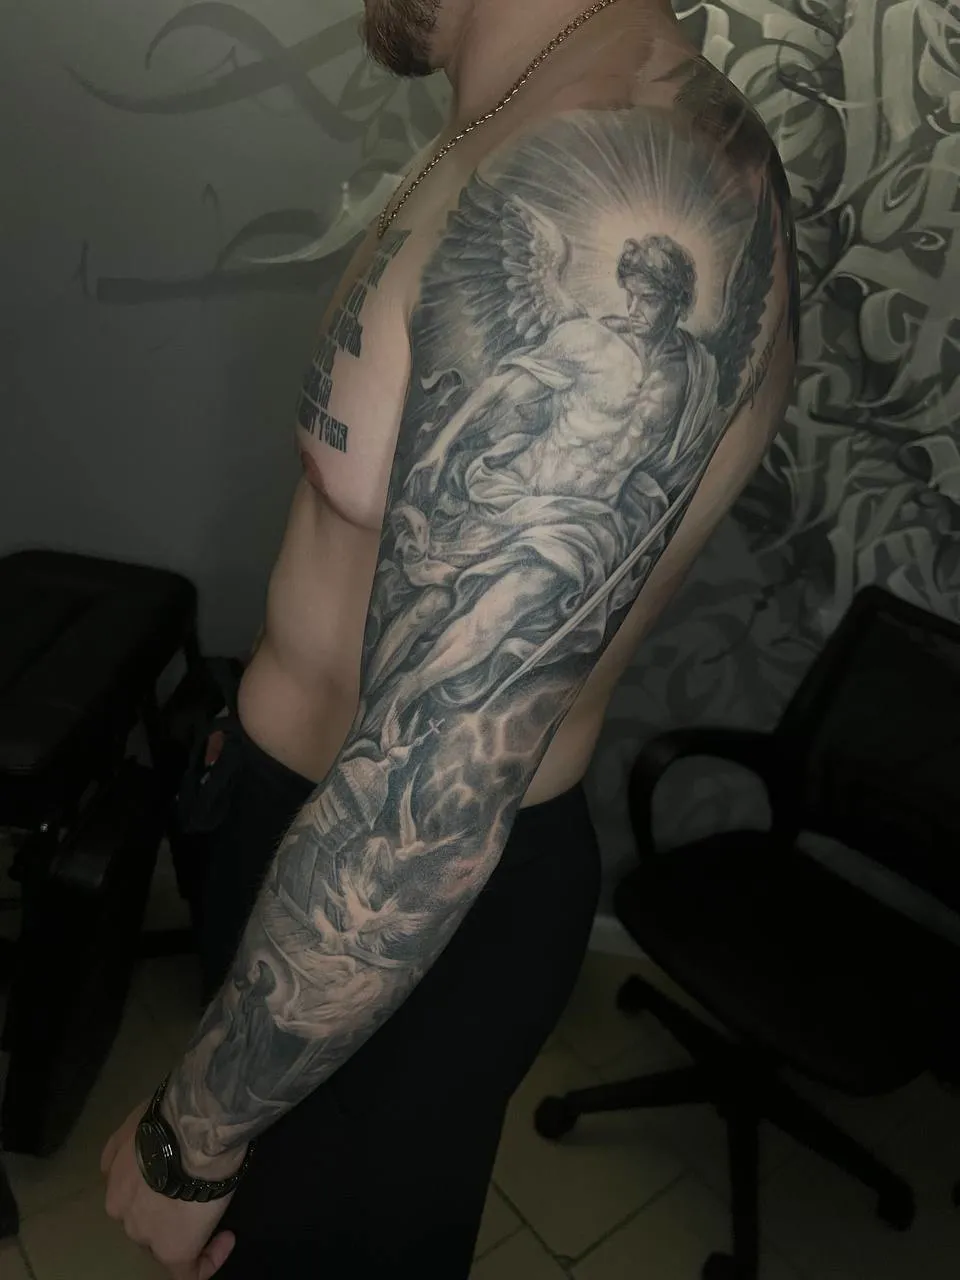
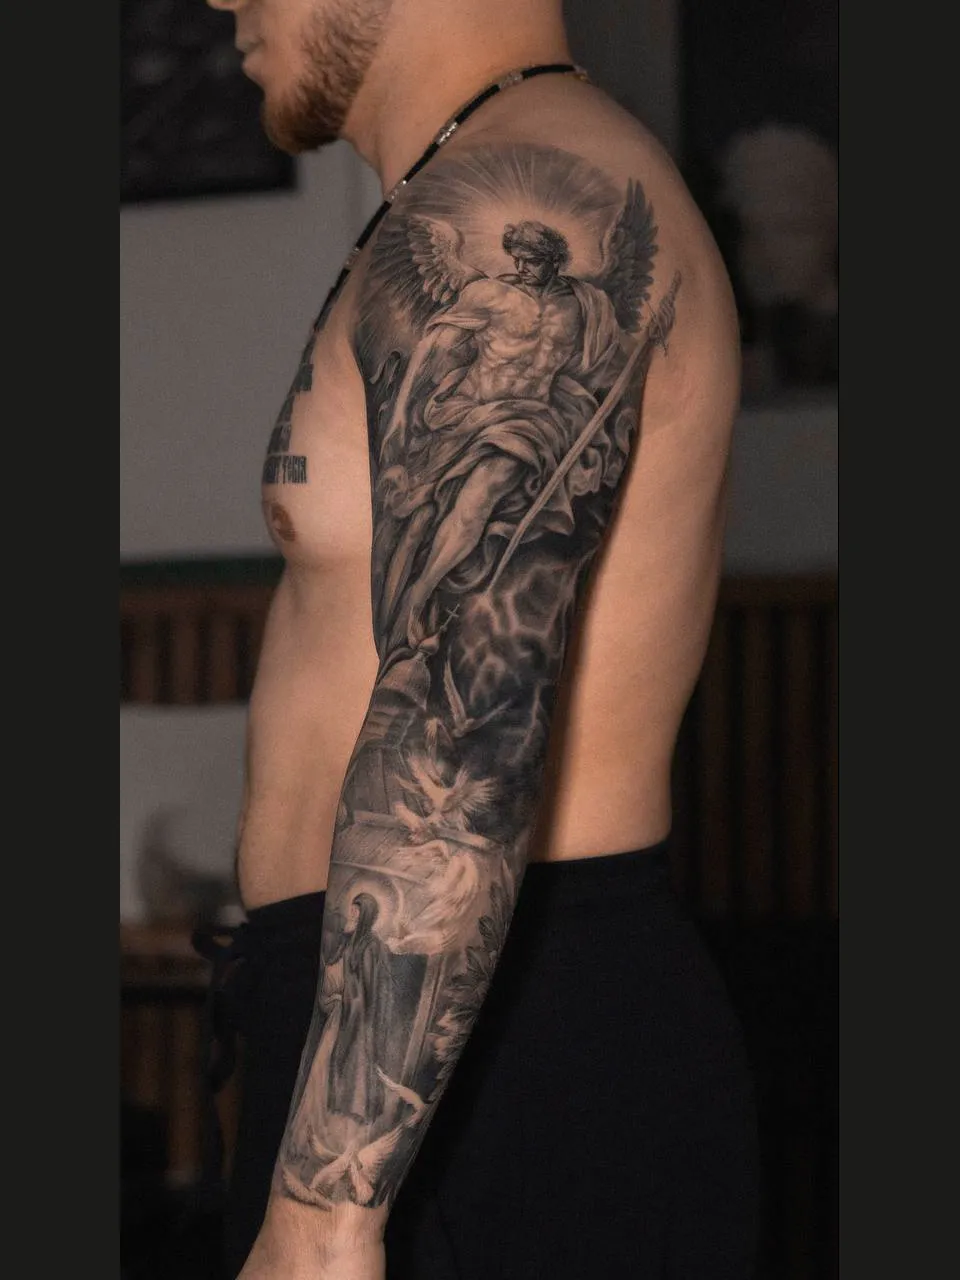
Сайт Миши: обновление

diff --git a/index.html b/index.html
@@ -971,6 +971,12 @@ div.rv-sum{justify-content:flex-start;gap:14px}div.rv-sum:hover{background:var(-
   .cv-list::-webkit-scrollbar{display:none}
   .cv-pick{flex:none}
 }
+/* «Ещё перекрытия» — квадратные коллажи Миши под ползунком: четыре в ряд, на телефоне два. Без приближения и параллакса, как у картин */
+.cvg{display:grid;grid-template-columns:repeat(4,minmax(0,1fr));gap:8px}
+.cvg .work button{aspect-ratio:1/1}
+.cvg .work img{scale:1;translate:none}
+@media (hover:hover) and (pointer:fine){.cvg .work button:hover img{scale:1.04}}
+@media (max-width:639px){.cvg{grid-template-columns:repeat(2,minmax(0,1fr))}}
 
 /* ——— сайт Миши: что отличается от личного сайта Владимира ——— */
 /* подвал без имени: отступы сверху и снизу от кнопок контактов одинаковые */
@@ -1136,6 +1142,11 @@ a[href^="#"]{-webkit-touch-callout:none}
            имя в src и srcset (там же ширина большого фото: 853w или 960w — чёткие экраны берут его), data-cat — темы, название (data-t, aria-label, .t) и описание (data-alt, alt).
            Названия работ придумал Claude по фото — Миша может поправить. «Огонь» в названиях не повторяем (27.10.2026), он остаётся только в описаниях -->
       <div class="grid" id="grid">
+        <!-- Спина — 6 сеансов (Миша, Telegram 28.10.2026), первой в «Работах» -->
+        <figure class="work" data-rv data-n="mikhail-41" data-cat="bw" data-t="Дракон в цепях" data-alt="Тату: дракон в цепях и готические окна на всю спину, чёрно-белый реализм">
+          <button type="button" data-open="mikhail-41" aria-label="Открыть: Дракон в цепях"><img src="img/thumbs/mikhail-41.webp" srcset="img/thumbs/mikhail-41.webp 520w, img/mikhail-41.webp 960w" sizes="(max-width: 980px) 50vw, 33vw" alt="Тату: дракон в цепях и готические окна на всю спину, чёрно-белый реализм" width="520" height="693" loading="lazy" decoding="async"></button>
+          <figcaption><span class="t">Дракон в цепях</span></figcaption>
+        </figure>
         <figure class="work" data-rv data-n="mikhail-07" data-cat="color" data-t="Леопард" data-alt="Тату: леопард в огне на плече, цветной реализм">
           <button type="button" data-open="mikhail-07" aria-label="Открыть: Леопард"><img src="img/thumbs/mikhail-07.webp" srcset="img/thumbs/mikhail-07.webp 520w, img/mikhail-07.webp 853w" sizes="(max-width: 980px) 50vw, 33vw" alt="Тату: леопард в огне на плече, цветной реализм" width="520" height="693" loading="lazy" decoding="async"></button>
           <figcaption><span class="t">Леопард</span></figcaption>
@@ -1313,7 +1324,7 @@ a[href^="#"]{-webkit-touch-callout:none}
     </div>
   </section>
 
-  <!-- «Перекрытия» — до и после с ползунком (фото Владимира, 27.10.2026). Пример «Леопард» — та же работа, что первая в «Работах».
+  <!-- «Перекрытия» — до и после с ползунком (фото Владимира, 27.10.2026). Пример «Леопард» — та же работа, что вторая в «Работах».
        Новый пример: img/cover-NN-before.webp и img/cover-NN.webp (один кадр, 3:4) + img/thumbs/cover-NN.webp (180×240) —
        скопировать <li> в .cv-list, поменять data-n, название и описания. Пока пример один, список под текстом скрыт -->
   <section class="sec" id="covers" style="padding-top:0">
@@ -1343,6 +1354,45 @@ a[href^="#"]{-webkit-touch-callout:none}
             <a class="m-btn m-main cv-go" href="https://t.me/ru_misha" target="_blank" rel="noopener">Прислать фото в&nbsp;Телеграм</a>
           </div>
         </div>
+      </div>
+      <!-- «Ещё перекрытия» — коллажи Миши «после | до» (Telegram, 28.10.2026, «От Миши/Новые 28.10»; у «Девушки с розами» «до» слева).
+           Ползунок — только у «Леопарда»: его фото сняты специально под сравнение (Владимир, 28.10.2026). С «Работами» повторяются — Миша: «пусть повторяются».
+           Открываются крупно, стрелки листают только коллажи. Новый коллаж: img/thumbs/cvg-NN.webp (520×520) и img/cvg-NN.webp
+           (960×1280: коллаж 960×960 по центру на фоне #1B1B19, как квадратные примеры в «Ценах»), скопировать <figure> -->
+      <p class="eyebrow ab-why" data-rv>Ещё перекрытия</p>
+      <div class="cvg" id="cvg" data-rv-stagger>
+        <figure class="work" data-rv data-n="cvg-01" data-t="Дракон" data-alt="Перекрытие: огненный дракон на предплечье поверх старой татуировки — до и после">
+          <button type="button" data-open="cvg-01" aria-label="Открыть: Дракон"><img src="img/thumbs/cvg-01.webp" alt="Перекрытие: огненный дракон на предплечье поверх старой татуировки — до и после" width="520" height="520" loading="lazy" decoding="async"></button>
+          <figcaption><span class="t">Дракон</span></figcaption>
+        </figure>
+        <figure class="work" data-rv data-n="cvg-02" data-t="Монахиня" data-alt="Перекрытие: монахиня с черепом поверх старой татуировки — до и после">
+          <button type="button" data-open="cvg-02" aria-label="Открыть: Монахиня"><img src="img/thumbs/cvg-02.webp" alt="Перекрытие: монахиня с черепом поверх старой татуировки — до и после" width="520" height="520" loading="lazy" decoding="async"></button>
+          <figcaption><span class="t">Монахиня</span></figcaption>
+        </figure>
+        <figure class="work" data-rv data-n="cvg-03" data-t="Солдат" data-alt="Перекрытие: солдат в шлеме на плече поверх старого контура — до и после">
+          <button type="button" data-open="cvg-03" aria-label="Открыть: Солдат"><img src="img/thumbs/cvg-03.webp" alt="Перекрытие: солдат в шлеме на плече поверх старого контура — до и после" width="520" height="520" loading="lazy" decoding="async"></button>
+          <figcaption><span class="t">Солдат</span></figcaption>
+        </figure>
+        <figure class="work" data-rv data-n="cvg-04" data-t="Орёл" data-alt="Перекрытие: орёл с раскрытыми крыльями на плече поверх старой тёмной татуировки — до и после">
+          <button type="button" data-open="cvg-04" aria-label="Открыть: Орёл"><img src="img/thumbs/cvg-04.webp" alt="Перекрытие: орёл с раскрытыми крыльями на плече поверх старой тёмной татуировки — до и после" width="520" height="520" loading="lazy" decoding="async"></button>
+          <figcaption><span class="t">Орёл</span></figcaption>
+        </figure>
+        <figure class="work" data-rv data-n="cvg-05" data-t="Святая" data-alt="Перекрытие: святая с кувшином на плече поверх старой татуировки — до и после">
+          <button type="button" data-open="cvg-05" aria-label="Открыть: Святая"><img src="img/thumbs/cvg-05.webp" alt="Перекрытие: святая с кувшином на плече поверх старой татуировки — до и после" width="520" height="520" loading="lazy" decoding="async"></button>
+          <figcaption><span class="t">Святая</span></figcaption>
+        </figure>
+        <figure class="work" data-rv data-n="cvg-06" data-t="Анубис" data-alt="Перекрытие: Анубис на голени поверх старой татуировки с топором — до и после">
+          <button type="button" data-open="cvg-06" aria-label="Открыть: Анубис"><img src="img/thumbs/cvg-06.webp" alt="Перекрытие: Анубис на голени поверх старой татуировки с топором — до и после" width="520" height="520" loading="lazy" decoding="async"></button>
+          <figcaption><span class="t">Анубис</span></figcaption>
+        </figure>
+        <figure class="work" data-rv data-n="cvg-07" data-t="Девушка с розами" data-alt="Перекрытие: женский портрет с розами на плече поверх пятна на коже — до и после">
+          <button type="button" data-open="cvg-07" aria-label="Открыть: Девушка с розами"><img src="img/thumbs/cvg-07.webp" alt="Перекрытие: женский портрет с розами на плече поверх пятна на коже — до и после" width="520" height="520" loading="lazy" decoding="async"></button>
+          <figcaption><span class="t">Девушка с розами</span></figcaption>
+        </figure>
+        <figure class="work" data-rv data-n="cvg-08" data-t="Леопард" data-alt="Перекрытие: леопард в огне на плече поверх старой выцветшей татуировки — до и после">
+          <button type="button" data-open="cvg-08" aria-label="Открыть: Леопард"><img src="img/thumbs/cvg-08.webp" alt="Перекрытие: леопард в огне на плече поверх старой выцветшей татуировки — до и после" width="520" height="520" loading="lazy" decoding="async"></button>
+          <figcaption><span class="t">Леопард</span></figcaption>
+        </figure>
       </div>
     </div>
   </section>
@@ -1412,11 +1462,13 @@ a[href^="#"]{-webkit-touch-callout:none}
            Примеры — фото Миши из Telegram (27.10.2026, «От Миши/Примеры по сеансам»): «эти за один сеанс» — 19, «два сеанса» и слон — 6, «рукав 4–5 сеансов» — 10.
            Лежат в img/ex/ (s1-, s2-, rk-; 960×1280, квадратные и широкие вписаны целиком на тёмный фон), в «Работах» их нет.
            data-ex — фото через пробел, первое — на карточке (превью img/thumbs/ex-…); data-ex-t — подпись в просмотре.
-           Новое фото: img/ex/s1-20.webp и дописать ex/s1-20 в data-ex, поправить число на плашке и в aria-label -->
+           Новое фото: img/ex/s1-20.webp и дописать ex/s1-20 в data-ex, поправить число на плашке и в aria-label.
+           Рукав (28.10.2026, вечер): вместо 10 отдельных фото — 5: коллажи Миши rk-c1 (Мэрилин), rk-c2 (око, облака, часы), rk-c3 (замок),
+           архангел rk-04 — фото Владимира, «где нет стула» (второе фото архангела убрано — Миша), Иисус rk-02. На карточке по-прежнему Мэрилин (rk-01) -->
       <div class="why-grid" data-rv-stagger>
         <div class="why-c pr-c" data-rv><button class="pr-ph" type="button" data-ex="ex/s1-01 ex/s1-02 ex/s1-03 ex/s1-04 ex/s1-05 ex/s1-06 ex/s1-07 ex/s1-08 ex/s1-09 ex/s1-10 ex/s1-11 ex/s1-12 ex/s1-13 ex/s1-14 ex/s1-15 ex/s1-16 ex/s1-17 ex/s1-18 ex/s1-19" data-ex-t="1 сеанс — 40 000 ₽" aria-label="Примеры работ за один сеанс: 19 фото"><img src="img/thumbs/ex-s1-01.webp" srcset="img/thumbs/ex-s1-01.webp 520w, img/ex/s1-01.webp 960w" sizes="25vw" alt="" width="520" height="693" loading="lazy" decoding="async"><span class="pr-n" aria-hidden="true">19 работ</span></button><h3>1 сеанс<span class="pr">40&nbsp;000&nbsp;₽</span></h3><p>Предплечье, голень или плечо: один образ с&nbsp;фоном</p></div>
         <div class="why-c pr-c" data-rv><button class="pr-ph" type="button" data-ex="ex/s2-01 ex/s2-02 ex/s2-03 ex/s2-04 ex/s2-05 ex/s2-06" data-ex-t="2 сеанса — 80 000 ₽" aria-label="Примеры работ за два сеанса: 6 фото"><img src="img/thumbs/ex-s2-01.webp" srcset="img/thumbs/ex-s2-01.webp 520w, img/ex/s2-01.webp 960w" sizes="25vw" alt="" width="520" height="693" loading="lazy" decoding="async"><span class="pr-n" aria-hidden="true">6 работ</span></button><h3>2 сеанса<span class="pr">80&nbsp;000&nbsp;₽</span></h3><p>Крупная работа на&nbsp;плече или голени, перекрытие</p></div>
-        <div class="why-c pr-c" data-rv><button class="pr-ph" type="button" data-ex="ex/rk-01 ex/rk-02 ex/rk-03 ex/rk-04 ex/rk-05 ex/rk-06 ex/rk-07 ex/rk-08 ex/rk-09 ex/rk-10" data-ex-t="Рукав, 4–5 сеансов — 160–200 тыс. ₽" aria-label="Примеры рукавов: 10 фото"><img src="img/thumbs/ex-rk-01.webp" srcset="img/thumbs/ex-rk-01.webp 520w, img/ex/rk-01.webp 960w" sizes="25vw" alt="" width="520" height="693" loading="lazy" decoding="async"><span class="pr-n" aria-hidden="true">10 работ</span></button><h3>Рукав — <span class="nw">4–5&nbsp;сеансов</span><span class="pr">160–200&nbsp;тыс.&nbsp;₽</span></h3><p>Рукав целиком — от&nbsp;плеча до&nbsp;запястья</p></div>
+        <div class="why-c pr-c" data-rv><button class="pr-ph" type="button" data-ex="ex/rk-c1 ex/rk-04 ex/rk-c2 ex/rk-c3 ex/rk-02" data-ex-t="Рукав, 4–5 сеансов — 160–200 тыс. ₽" aria-label="Примеры рукавов: 5 фото"><img src="img/thumbs/ex-rk-01.webp" srcset="img/thumbs/ex-rk-01.webp 520w, img/ex/rk-01.webp 960w" sizes="25vw" alt="" width="520" height="693" loading="lazy" decoding="async"><span class="pr-n" aria-hidden="true">5 работ</span></button><h3>Рукав — <span class="nw">4–5&nbsp;сеансов</span><span class="pr">160–200&nbsp;тыс.&nbsp;₽</span></h3><p>Рукав целиком — от&nbsp;плеча до&nbsp;запястья</p></div>
       </div>
       <div class="pr-free" data-rv><h3>До&nbsp;сеанса</h3><ul><li><span>Консультация</span><span class="pf-dots" aria-hidden="true"></span><b>бесплатно</b></li><li><span>Эскиз</span><span class="pf-dots" aria-hidden="true"></span><b>бесплатно</b></li></ul></div>
     </div>
@@ -1866,6 +1918,9 @@ a[href^="#"]{-webkit-touch-callout:none}
   /* paintings («Мои картины» in «Обо мне») open the same way; prev/next walk through the paintings only */
   var art = document.getElementById("art");
   if (art){ var arts = Array.prototype.slice.call(art.querySelectorAll(".work")); art.addEventListener("click", function(e){ var b = e.target.closest("button[data-open]"); if (b) open(b.dataset.open, arts); }); }
+  /* collages «Ещё перекрытия» too; prev/next walk through the collages only */
+  var cvg = document.getElementById("cvg");
+  if (cvg){ var cvgs = Array.prototype.slice.call(cvg.querySelectorAll(".work")); cvg.addEventListener("click", function(e){ var b = e.target.closest("button[data-open]"); if (b) open(b.dataset.open, cvgs); }); }
 
   /* ——— paintings on a phone or a tablet drift left on their own, endlessly, so it is plain there are more.
      A finger (or a mouse) stops the strip and leafs it by hand, with a fling; 3 s after letting go it drifts again.
